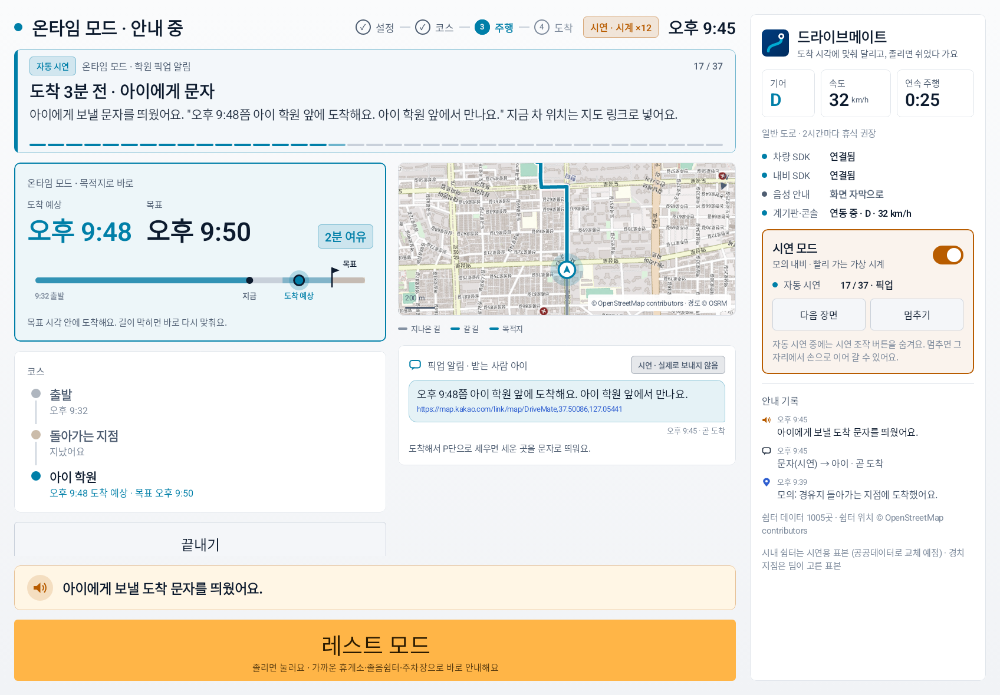
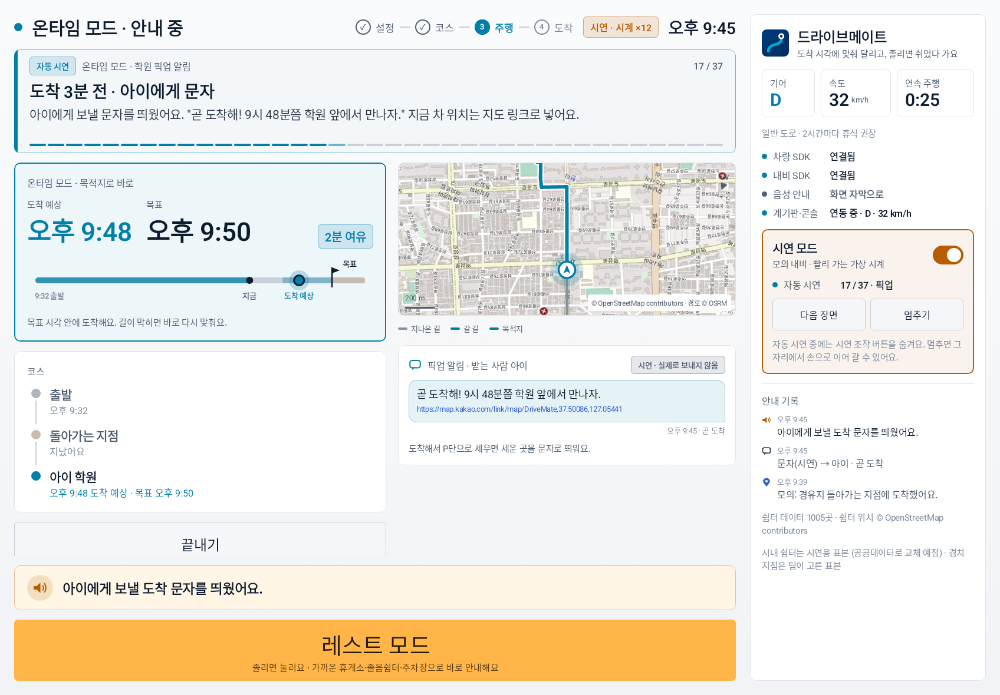
README: 픽업 알림 문자 아이 말투 설명, 화면 11·12 다시 찍기

Changed region(s): [[0.186, 0.1511, 0.682, 0.1813], [0.403, 0.5439, 0.682, 0.5741]]

diff --git a/README.md b/README.md
@@ -36,6 +36,14 @@
 2. **세운 곳**: 픽업할 곳 300m 안에서 P단으로 세우면 실제로 선 자리(학원에서 몇 m인지와 지도 링크). 조금 옮겨(30m 넘게) 다시 세우면 새 자리를 다시 띄웁니다. 아직 도착으로 보지 않았으면 이때 도착으로 보고('곧 도착' 대신 세운 곳 한 통만), 레스트 모드의 '주차하셨네요'는 묻지 않습니다. 기다릴 곳을 건너뛰고 학원 앞에 세워도 같습니다(기다릴 곳에서 150m 넘게 떨어져 있고 학원이 더 가까우면). 고른 돌아가는 길이 아직 남았을 때(학원 앞을 지나 경유지로 가다 잠깐 세움), 기다릴 곳에 세웠을 때, 레스트 모드로 쉬는 중에는 띄우지 않습니다.
 3. **자리 없음**: 도착 화면의 '자리 없음'을 누르면 진행 방향 오른쪽 앞으로 약 3분 한 바퀴 도는 지점을 경유지로 넣고, 몇 시쯤 다시 오는지 띄웁니다. 도는 동안은 늦어도 길을 줄이지 않고(세울 곳이 없어 도는 것이라) 목표 시각 대비 늦는 만큼만 보여 줍니다. 학원 앞 줄에 1분 넘게 서 있어도 바로 다시 도착으로 보지 않습니다. 도는 길을 지나면 다시 도착으로 보고, 내비가 그 알림을 주지 않아도(다른 골목으로 돈 경우) 한 번 벗어났다 돌아오거나 한 바퀴 시간이 지난 뒤 학원 가까이에 1분 머물면 도착으로 봅니다. 도는 도중 빈자리에 P단으로 세우면 그때 도착으로 보며 내비 경로에서 도는 길을 뺍니다.
 
+받는 사람이 아이면 부모가 아이에게 보내듯 짧은 반말로 씁니다. 장소는 '아이 학원' 대신 '학원', 시각은 '9시 48분'처럼 씁니다. 동승자에게는 존댓말로 보냅니다.
+
+| 종류 | 아이에게 보내는 문자 (앞에 [드라이브메이트], 곧 도착·세운 곳은 끝에 지도 링크) |
+| --- | --- |
+| 곧 도착 | 곧 도착해! 9시 48분쯤 학원 앞에서 만나자. |
+| 세운 곳 | 학원 바로 앞에 차 세웠어. 천천히 나와! (떨어져 세우면 "학원에서 60m쯤 떨어진 곳에 차 세웠어. 지도 보고 천천히 와!") |
+| 자리 없음 | 학원 앞에 차 세울 데가 없어서 한 바퀴 돌고 9시 52분쯤 다시 올게. 만나는 곳은 그대로니까 조금만 기다려 줘! |
+
 띄운 문자는 달리는·도착 화면의 미니맵 아래 '픽업 알림' 카드(말풍선과 띄운 시각)와 오른쪽 안내 기록에 남고, 음성으로 "아이에게 보낼 도착 문자를 띄웠어요"처럼 짧게 알립니다.
 
 **실제로 보내지는 않습니다.** Pleos SDK에 문자 기능이 없고, Android Automotive에서 일반 앱은 연결된 휴대폰으로 문자를 보낼 수 없으며(블루투스 MAP은 시스템 메신저·음성 비서용), 에뮬레이터는 휴대폰과 연결되지 않습니다. 그래서 설정 버튼과 카드에 '실제로 보내지 않음'을 늘 함께 표시합니다(시연 모드에서는 '시연 · 실제로 보내지 않음'). 실제 발송은 Pleos가 메시지 API를 열면 휴대폰 연동 문자로, 아니면 서버 문자 API(발신번호 사전 등록, 키는 서버에 보관)로 붙일 예정입니다(`RestMateController.sendPickup`).
